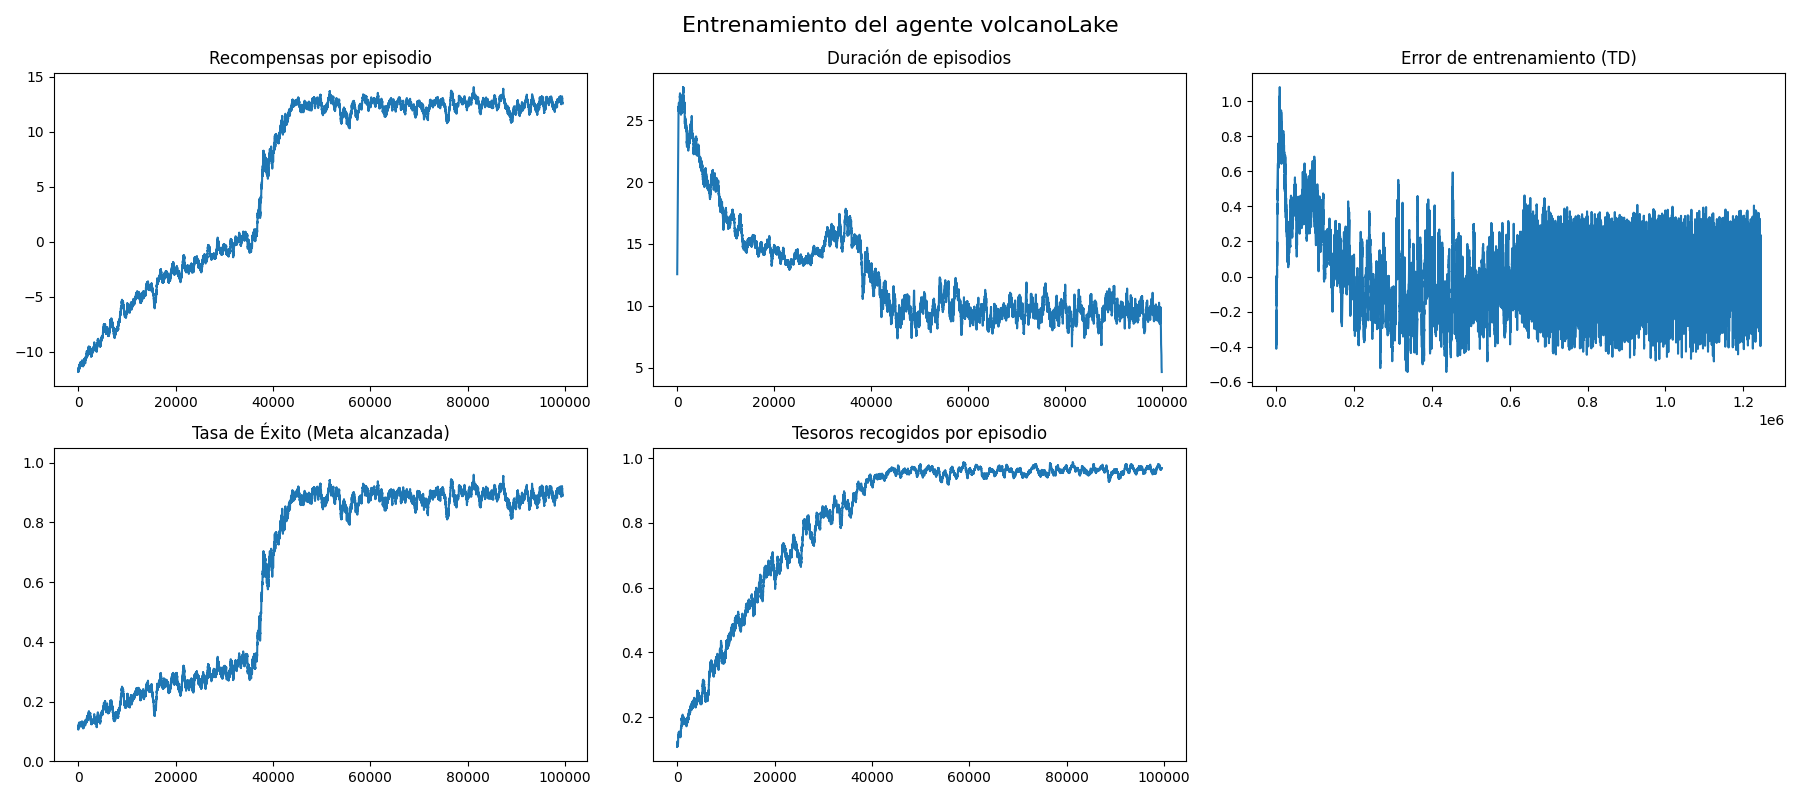
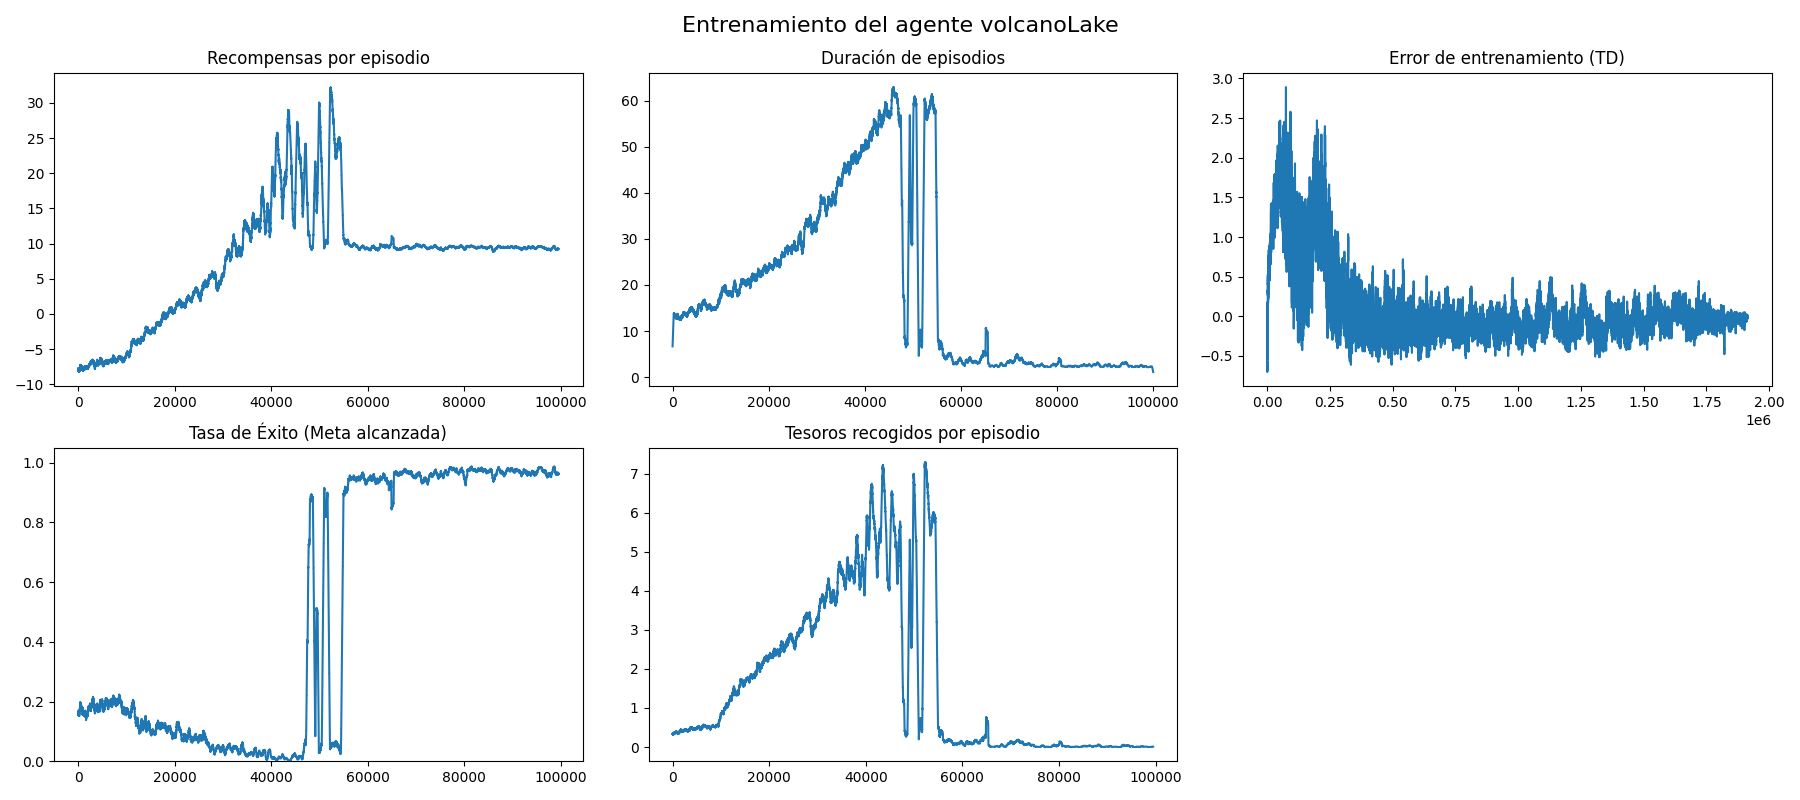
Añadido wrappers: TorusWrapper y ActionFlikerWrapper

diff --git a/VolcanoLake_v3/wrappers/wrappers.py b/VolcanoLake_v3/wrappers/wrappers.py
@@ -161,3 +161,97 @@ class LimitedVision(Wrapper):
             
         # Devolvemos las letras de las casillas (ej. '.', 'L')
         return (current_tile, front_tile)
+
+class ActionFlickerWrapper(Wrapper):
+    """
+    Simula un "controlador defectuoso".
+    Con una probabilidad flicker_prob, ignora la acción
+    elegida por el agente y la sustituye por una acción aleatoria.
+    """
+    def __init__(self, env, flicker_prob: float = 0.1):
+        super().__init__(env)
+        self.flicker_prob = flicker_prob
+        
+    def step(self, action):
+        
+        if np.random.rand() < self.flicker_prob:
+            flickered_action = self.env.action_space.sample()
+            return self.env.step(flickered_action)
+        else:
+            # Se ejecuta la acción que el agente quería.
+            return self.env.step(action)
+
+    def reset(self, **kwargs):
+        return self.env.reset(**kwargs)
+
+class TorusWrapper(Wrapper):
+    """
+    Mundo "Toro" (Toroidal).
+    
+    Cuando el agente choca contra un borde o esquina (es decir,
+    next_obs == obs_before), lo teletransporta al lado opuesto.
+    
+    Acciones V3:
+    - 0: Arriba
+    - 1: Derecha
+    - 2: Abajo
+    - 3: Izquierda
+    - 4: Arriba-Derecha
+    - 5: Abajo-Derecha
+    - 6: Abajo-Izquierda
+    - 7: Arriba-Izquierda
+    """
+    
+    def __init__(self, env):
+        super().__init__(env)
+        # Obtenemos las dimensiones desde el entorno V3
+        self.nrows = self.env.unwrapped.nrows
+        self.ncols = self.env.unwrapped.ncols
+
+    def step(self, action):
+        
+        # Estado ANTES de moverse
+        obs_before = self.env.unwrapped.agent_state
+        
+        # Paso normal del entorno V3
+        next_obs, reward, terminated, truncated, info = self.env.step(action)
+        
+        # Si la observación no cambió (chocamos) y el episodio no terminó
+        if (next_obs == obs_before) and not terminated:
+            
+            # Obtenemos la posición actual
+            i, j = self.env.unwrapped._state_to_pos(obs_before)
+            
+            new_state = obs_before # Por defecto, no cambia
+
+            # --- Lógica Cardinal (Corregida para V3) ---
+            if action == 3 and j == 0:  # 3=Izquierda en borde izquierdo
+                new_state = self.env.unwrapped._pos_to_state(i, self.ncols - 1)
+            elif action == 1 and j == self.ncols - 1: # 1=Derecha en borde derecho
+                new_state = self.env.unwrapped._pos_to_state(i, 0)
+            elif action == 0 and i == 0: # 0=Arriba en borde superior
+                new_state = self.env.unwrapped._pos_to_state(self.nrows - 1, j)
+            elif action == 2 and i == self.nrows - 1: # 2=Abajo en borde inferior
+                new_state = self.env.unwrapped._pos_to_state(0, j)
+
+            # --- ¡NUEVO: Lógica Diagonal (Solo esquinas)! ---
+            elif action == 7 and i == 0 and j == 0: # 7=Arriba-Izq en esquina (0,0)
+                new_state = self.env.unwrapped._pos_to_state(self.nrows - 1, self.ncols - 1)
+            elif action == 4 and i == 0 and j == self.ncols - 1: # 4=Arriba-Der en esquina (0, M-1)
+                new_state = self.env.unwrapped._pos_to_state(self.nrows - 1, 0)
+            elif action == 6 and i == self.nrows - 1 and j == 0: # 6=Abajo-Izq en esquina (N-1, 0)
+                new_state = self.env.unwrapped._pos_to_state(0, self.ncols - 1)
+            elif action == 5 and i == self.nrows - 1 and j == self.ncols - 1: # 5=Abajo-Der en esquina (N-1, M-1)
+                new_state = self.env.unwrapped._pos_to_state(0, 0)
+
+            # Actualiza el estado interno real del entorno
+            # ¡CORREGIDO para V3!
+            self.env.unwrapped.agent_state = new_state
+            
+            # Sobrescribe la observación de "choque" con la nueva
+            next_obs = new_state
+
+        return next_obs, reward, terminated, truncated, info
+
+    def reset(self, **kwargs):
+        return self.env.reset(**kwargs)

diff --git a/VolcanoLake_v3/training/train_agent.py b/VolcanoLake_v3/training/train_agent.py
@@ -4,7 +4,7 @@ import os
 
 from envs.volcano_lake_env import VolcanoLakeEnv
 from agent.qlearning_agent import VolcanoLakeAgent    
-from wrappers.wrappers import IncreasingLavaHoles, LimitedVision     
+from wrappers.wrappers import IncreasingLavaHoles, LimitedVision, ActionFlickerWrapper, TorusWrapper    
 
 # Obtener directorio del proyecto (VolcanoLake_v3)
 current_dir = os.path.dirname(os.path.abspath(__file__)) # training/
@@ -40,9 +40,12 @@ def train_volcanoLake_agent(n_episodes, map_path, learning_rate, start_epsilon, 
         
     # ---- Wrappers ----
     
-    #env = IncreasingLavaHoles(env, 5, 0.05)
-    #env = LimitedVision(env)
-    env = gym.wrappers.TimeLimit(env, 100)
+    env = IncreasingLavaHoles(env, 5, 0.05)
+    env = LimitedVision(env)
+    env = TorusWrapper(env)
+    env = ActionFlickerWrapper(env)
+    env = gym.wrappers.TimeLimit(env, 75)
+    
     env = gym.wrappers.RecordVideo(
         env, 
         video_folder = videos_dir,

diff --git a/VolcanoLake_v3/main.py b/VolcanoLake_v3/main.py
@@ -12,7 +12,7 @@ if __name__ == "__main__":
 
     # Parametros del entrenamiento
     N_EPISODES = 100_000
-    MAP_FILE = "VolcanoLake_v3/maps/map_5x5.csv"
+    MAP_FILE = "VolcanoLake_v3/maps/map_25x25.csv"
     
     #Parámetros del algoritmo Q-Learning
     LEARNING_RATE = 0.1
